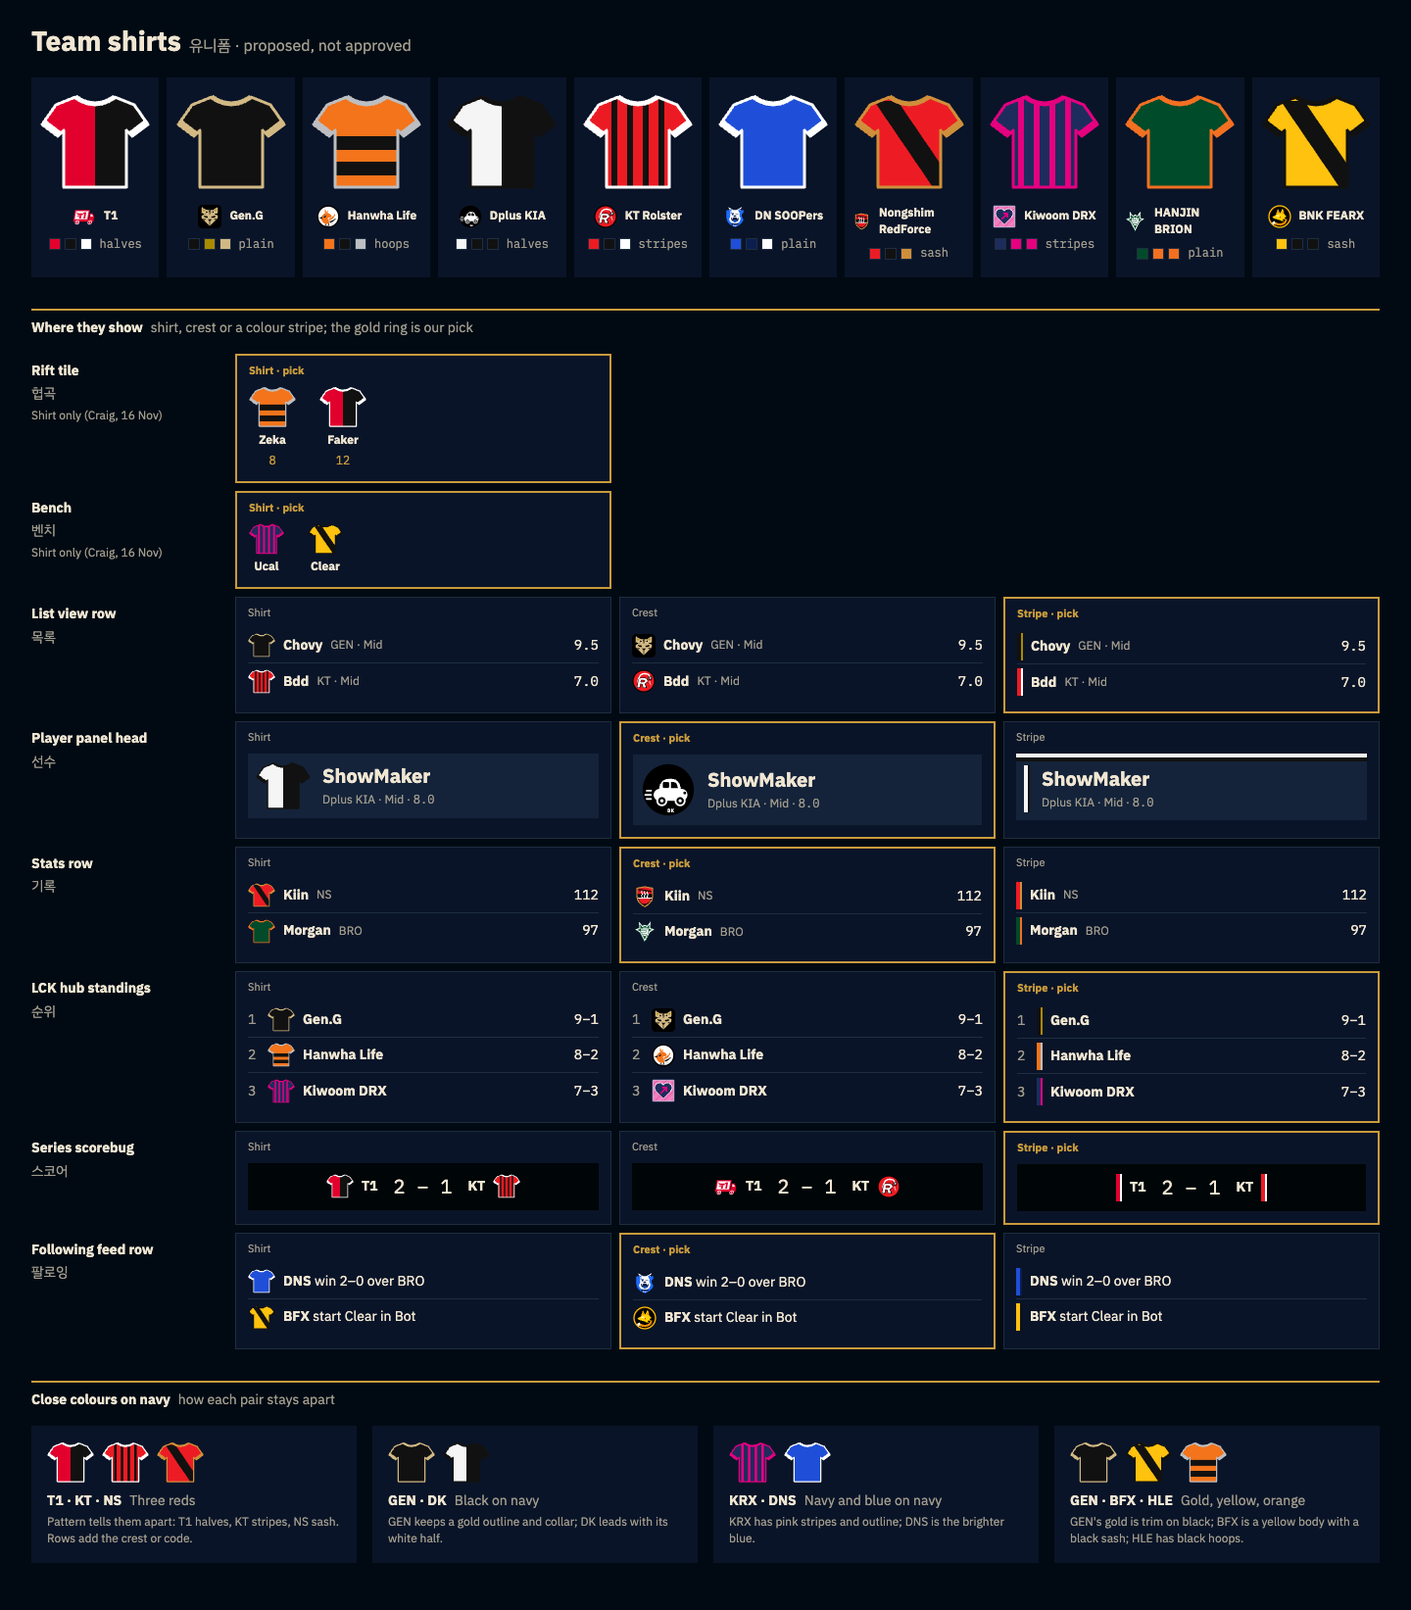
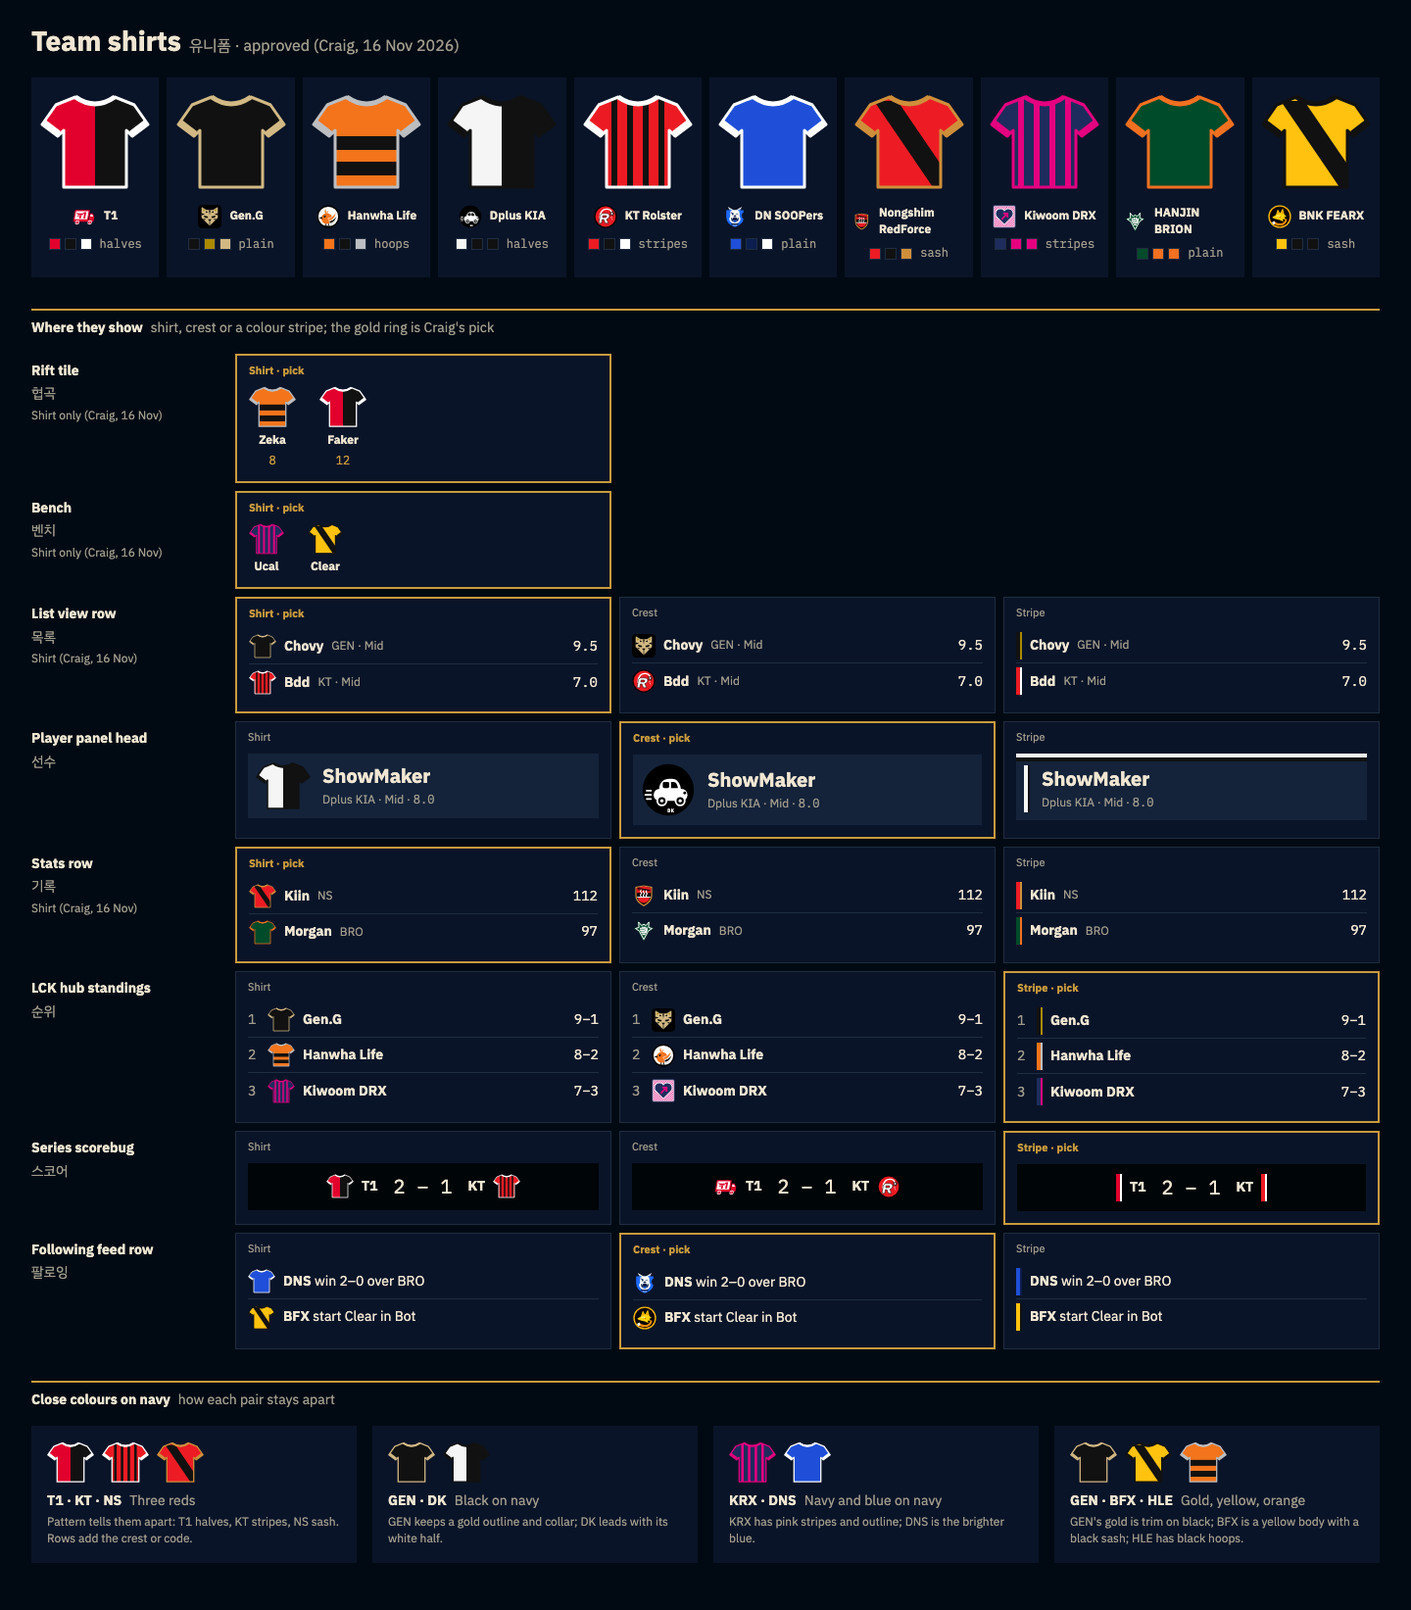
docs: team shirts approved; shirts on Rift, bench, list and stats rows
Crests on the player panel head and the Following feed; a colour stripe on
standings and the scorebug (Craig, 16 Nov 2026).

diff --git a/docs/design/proposals/2026-11-16-team-shirts/shirts.html b/docs/design/proposals/2026-11-16-team-shirts/shirts.html
@@ -14,7 +14,7 @@ h2{font-size:14px;font-weight:700;border-top:2px solid var(--ink);padding-top:8p
 .bug{display:flex;align-items:center;gap:8px;justify-content:center;background:#000508;height:48px}.bug .sc{font-size:20px;margin:0 8px}
 .clashes{display:grid;grid-template-columns:repeat(4,1fr);gap:16px}.clash{background:var(--paper);padding:16px}.cs{display:flex;gap:8px;margin-bottom:8px}.clash b{margin-right:8px}.clash p{color:var(--mid);font-size:12px;margin-top:4px}
 </style></head><body>
-<h1>Team shirts<i>유니폼 · proposed, not approved</i></h1>
+<h1>Team shirts<i>유니폼 · approved (Craig, 16 Nov 2026)</i></h1>
 <div class="heroes"><div class="hero"><div class="big"><svg width="112" height="100" viewBox="0 0 56 50" aria-label="T1 shirt"><defs><clipPath id="c0"><path d="M18 2 L8 6 L1 16 L9 22 L12 19 L12 48 L44 48 L44 19 L47 22 L55 16 L48 6 L38 2 Q28 9 18 2 Z"/></clipPath></defs>
 <g clip-path="url(#c0)"><path d="M18 2 L8 6 L1 16 L9 22 L12 19 L12 48 L44 48 L44 19 L47 22 L55 16 L48 6 L38 2 Q28 9 18 2 Z" fill="#E2012D"/><rect x="28" y="0" width="30" height="50" fill="#111111"/>
 <path d="M1 16 L9 22 L10.5 19.5 L3 13.8 Z M55 16 L47 22 L45.5 19.5 L53 13.8 Z" fill="#FFFFFF"/></g>
@@ -86,7 +86,7 @@ h2{font-size:14px;font-weight:700;border-top:2px solid var(--ink);padding-top:8p
 <div class="who"><svg width="24" height="24" viewBox="0 0 120 120" xmlns="http://www.w3.org/2000/svg"><circle cx="60" cy="60" r="58" fill="#FFD200"/><circle cx="60" cy="60" r="54" fill="#F28C00"/><circle cx="60" cy="60" r="51" fill="#000000"/><path d="M98 72 Q96 104 62 106 Q36 106 26 92 L34 90 L32 84 Q46 96 62 95 Q86 93 88 72 Z" fill="#F28C00"/><path d="M20 90 L33 83 L38 96 L27 101 Z" fill="#FFFFFF"/><path d="M20 64 L40 52 L50 22 L62 42 L76 18 L84 50 L95 60 L83 64 L91 74 L75 74 L79 86 L60 78 L44 74 L30 70 Z" fill="#FFD200"/><path d="M51 31 L58 42 L46 47 Z" fill="#F28C00"/><path d="M75 28 L80 47 L67 42 Z" fill="#F28C00"/><path d="M17 61 L25 64 L18 68 Z" fill="#000000"/><path d="M43 58 Q51 51 60 57" fill="none" stroke="#FFFFFF" stroke-width="3.5" stroke-linecap="round"/><path d="M58 63 L66 61 L62 66 Z" fill="#E60012"/></svg>
 <b>BNK FEARX</b></div>
 <div class="sw"><i style="background:#FFC20E"></i><i style="background:#111111"></i><i style="background:#111111"></i><span class="mono">sash</span></div></div></div>
-<h2>Where they show<span>shirt, crest or a colour stripe; the gold ring is our pick</span></h2><div class="place"><div class="pl"><b>Rift tile</b><span class="ko">협곡</span><span class="m">Shirt only (Craig, 16 Nov)</span></div><div class="cell pick"><div class="lbl">Shirt · pick</div><div class="tile"><svg width="48" height="42.857142857142854" viewBox="0 0 56 50" aria-label="Hanwha Life shirt"><defs><clipPath id="c10"><path d="M18 2 L8 6 L1 16 L9 22 L12 19 L12 48 L44 48 L44 19 L47 22 L55 16 L48 6 L38 2 Q28 9 18 2 Z"/></clipPath></defs>
+<h2>Where they show<span>shirt, crest or a colour stripe; the gold ring is Craig's pick</span></h2><div class="place"><div class="pl"><b>Rift tile</b><span class="ko">협곡</span><span class="m">Shirt only (Craig, 16 Nov)</span></div><div class="cell pick"><div class="lbl">Shirt · pick</div><div class="tile"><svg width="48" height="42.857142857142854" viewBox="0 0 56 50" aria-label="Hanwha Life shirt"><defs><clipPath id="c10"><path d="M18 2 L8 6 L1 16 L9 22 L12 19 L12 48 L44 48 L44 19 L47 22 L55 16 L48 6 L38 2 Q28 9 18 2 Z"/></clipPath></defs>
 <g clip-path="url(#c10)"><path d="M18 2 L8 6 L1 16 L9 22 L12 19 L12 48 L44 48 L44 19 L47 22 L55 16 L48 6 L38 2 Q28 9 18 2 Z" fill="#F3741B"/><rect x="0" y="22" width="56" height="7" fill="#111111"/><rect x="0" y="35" width="56" height="7" fill="#111111"/>
 <path d="M1 16 L9 22 L10.5 19.5 L3 13.8 Z M55 16 L47 22 L45.5 19.5 L53 13.8 Z" fill="#BCBEC1"/></g>
 <path d="M18 2 L8 6 L1 16 L9 22 L12 19 L12 48 L44 48 L44 19 L47 22 L55 16 L48 6 L38 2 Q28 9 18 2 Z" fill="none" stroke="#BCBEC1" stroke-width="1.5" stroke-linejoin="round"/>
@@ -102,7 +102,7 @@ h2{font-size:14px;font-weight:700;border-top:2px solid var(--ink);padding-top:8p
 <g clip-path="url(#c13)"><path d="M18 2 L8 6 L1 16 L9 22 L12 19 L12 48 L44 48 L44 19 L47 22 L55 16 L48 6 L38 2 Q28 9 18 2 Z" fill="#FFC20E"/><path d="M10 4 L22 4 L52 48 L40 48 Z" fill="#111111"/>
 <path d="M1 16 L9 22 L10.5 19.5 L3 13.8 Z M55 16 L47 22 L45.5 19.5 L53 13.8 Z" fill="#111111"/></g>
 <path d="M18 2 L8 6 L1 16 L9 22 L12 19 L12 48 L44 48 L44 19 L47 22 L55 16 L48 6 L38 2 Q28 9 18 2 Z" fill="none" stroke="#111111" stroke-width="1.5" stroke-linejoin="round"/>
-<path d="M18 2 Q28 9 38 2" fill="none" stroke="#111111" stroke-width="2.5"/></svg><b>Clear</b></div></div></div><div class="place"><div class="pl"><b>List view row</b><span class="ko">목록</span></div><div class="cell"><div class="lbl">Shirt</div><div class="row"><svg width="28" height="25" viewBox="0 0 56 50" aria-label="Gen.G shirt"><defs><clipPath id="c14"><path d="M18 2 L8 6 L1 16 L9 22 L12 19 L12 48 L44 48 L44 19 L47 22 L55 16 L48 6 L38 2 Q28 9 18 2 Z"/></clipPath></defs>
+<path d="M18 2 Q28 9 38 2" fill="none" stroke="#111111" stroke-width="2.5"/></svg><b>Clear</b></div></div></div><div class="place"><div class="pl"><b>List view row</b><span class="ko">목록</span><span class="m">Shirt (Craig, 16 Nov)</span></div><div class="cell pick"><div class="lbl">Shirt · pick</div><div class="row"><svg width="28" height="25" viewBox="0 0 56 50" aria-label="Gen.G shirt"><defs><clipPath id="c14"><path d="M18 2 L8 6 L1 16 L9 22 L12 19 L12 48 L44 48 L44 19 L47 22 L55 16 L48 6 L38 2 Q28 9 18 2 Z"/></clipPath></defs>
 <g clip-path="url(#c14)"><path d="M18 2 L8 6 L1 16 L9 22 L12 19 L12 48 L44 48 L44 19 L47 22 L55 16 L48 6 L38 2 Q28 9 18 2 Z" fill="#111111"/>
 <path d="M1 16 L9 22 L10.5 19.5 L3 13.8 Z M55 16 L47 22 L45.5 19.5 L53 13.8 Z" fill="#D2B984"/></g>
 <path d="M18 2 L8 6 L1 16 L9 22 L12 19 L12 48 L44 48 L44 19 L47 22 L55 16 L48 6 L38 2 Q28 9 18 2 Z" fill="none" stroke="#D2B984" stroke-width="1.5" stroke-linejoin="round"/>
@@ -112,12 +112,12 @@ h2{font-size:14px;font-weight:700;border-top:2px solid var(--ink);padding-top:8p
 <path d="M18 2 L8 6 L1 16 L9 22 L12 19 L12 48 L44 48 L44 19 L47 22 L55 16 L48 6 L38 2 Q28 9 18 2 Z" fill="none" stroke="#FFFFFF" stroke-width="1.5" stroke-linejoin="round"/>
 <path d="M18 2 Q28 9 38 2" fill="none" stroke="#FFFFFF" stroke-width="2.5"/></svg><b>Bdd</b><span class="m">KT · Mid</span><span class="mono r">7.0</span></div></div><div class="cell"><div class="lbl">Crest</div><div class="row"><svg width="24" height="24" viewBox="0 0 120 120" xmlns="http://www.w3.org/2000/svg"><rect x="0" y="0" width="120" height="120" rx="22" fill="#000000"/><polygon points="20,14 44,28 76,28 100,14 100,66 60,106 20,66" fill="#D2B984" stroke="#D2B984" stroke-width="3" stroke-linejoin="round"/><g fill="#AA8A00"><polygon points="26,22 38,29 27,33"/><polygon points="94,22 82,29 93,33"/></g><g fill="#000000"><polygon points="56,28 64,28 60,52"/><polygon points="40,33 52,37 41,41"/><polygon points="80,33 68,37 79,41"/><polygon points="18,42 36,48 18,54"/><polygon points="102,42 84,48 102,54"/><polygon points="26,70 42,74 32,78"/><polygon points="94,70 78,74 88,78"/><polygon points="30,55 52,60 48,67 34,65"/><polygon points="90,55 68,60 72,67 86,65"/><polygon points="51,74 69,74 60,85"/><rect x="58.5" y="84" width="3" height="24"/></g></svg>
 <b>Chovy</b><span class="m">GEN · Mid</span><span class="mono r">9.5</span></div><div class="row"><svg width="24" height="24" viewBox="0 0 120 120" xmlns="http://www.w3.org/2000/svg"><circle cx="60" cy="60" r="58" fill="#000000"/><circle cx="60" cy="60" r="52" fill="#EC1B23"/><path d="M30 66 Q34 18 70 22 Q88 24 91 38" fill="none" stroke="#FFFFFF" stroke-width="7" stroke-linecap="round"/><g transform="translate(12,0) skewX(-10)"><path fill-rule="evenodd" fill="#FFFFFF" stroke="#000000" stroke-width="2.5" stroke-linejoin="round" d="M38 44 H60 C72 44 78 51 78 59 C78 67 73 72 66 74 L79 94 H63 L52 75 H44 V94 H30 V52 Z M44 55 H58 C62 55 64 57 64 60 C64 63 62 65 58 65 H44 Z"/></g><polygon transform="translate(93,45) rotate(160)" points="0,-12 2.9,-4 11.4,-3.7 4.7,1.5 7.1,9.7 0,4.9 -7.1,9.7 -4.7,1.5 -11.4,-3.7 -2.9,-4" fill="#FFFFFF" stroke="#000000" stroke-width="3" stroke-linejoin="round"/><circle cx="90" cy="64" r="3.2" fill="#FFFFFF"/><circle cx="93" cy="72" r="2.3" fill="#FFFFFF"/><circle cx="95" cy="79" r="1.5" fill="#FFFFFF"/></svg>
-<b>Bdd</b><span class="m">KT · Mid</span><span class="mono r">7.0</span></div></div><div class="cell pick"><div class="lbl">Stripe · pick</div><div class="row"><i class="bar" style="height:28px;background:#111111;box-shadow:inset -2px 0 0 #AA8A00"></i><b>Chovy</b><span class="m">GEN · Mid</span><span class="mono r">9.5</span></div><div class="row"><i class="bar" style="height:28px;background:#EC1B23;box-shadow:inset -2px 0 0 #FFFFFF"></i><b>Bdd</b><span class="m">KT · Mid</span><span class="mono r">7.0</span></div></div></div><div class="place"><div class="pl"><b>Player panel head</b><span class="ko">선수</span></div><div class="cell"><div class="lbl">Shirt</div><div class="panel" style=""><svg width="56" height="50" viewBox="0 0 56 50" aria-label="Dplus KIA shirt"><defs><clipPath id="c16"><path d="M18 2 L8 6 L1 16 L9 22 L12 19 L12 48 L44 48 L44 19 L47 22 L55 16 L48 6 L38 2 Q28 9 18 2 Z"/></clipPath></defs>
+<b>Bdd</b><span class="m">KT · Mid</span><span class="mono r">7.0</span></div></div><div class="cell"><div class="lbl">Stripe</div><div class="row"><i class="bar" style="height:28px;background:#111111;box-shadow:inset -2px 0 0 #AA8A00"></i><b>Chovy</b><span class="m">GEN · Mid</span><span class="mono r">9.5</span></div><div class="row"><i class="bar" style="height:28px;background:#EC1B23;box-shadow:inset -2px 0 0 #FFFFFF"></i><b>Bdd</b><span class="m">KT · Mid</span><span class="mono r">7.0</span></div></div></div><div class="place"><div class="pl"><b>Player panel head</b><span class="ko">선수</span></div><div class="cell"><div class="lbl">Shirt</div><div class="panel" style=""><svg width="56" height="50" viewBox="0 0 56 50" aria-label="Dplus KIA shirt"><defs><clipPath id="c16"><path d="M18 2 L8 6 L1 16 L9 22 L12 19 L12 48 L44 48 L44 19 L47 22 L55 16 L48 6 L38 2 Q28 9 18 2 Z"/></clipPath></defs>
 <g clip-path="url(#c16)"><path d="M18 2 L8 6 L1 16 L9 22 L12 19 L12 48 L44 48 L44 19 L47 22 L55 16 L48 6 L38 2 Q28 9 18 2 Z" fill="#F5F5F5"/><rect x="28" y="0" width="30" height="50" fill="#111111"/>
 <path d="M1 16 L9 22 L10.5 19.5 L3 13.8 Z M55 16 L47 22 L45.5 19.5 L53 13.8 Z" fill="#111111"/></g>
 <path d="M18 2 L8 6 L1 16 L9 22 L12 19 L12 48 L44 48 L44 19 L47 22 L55 16 L48 6 L38 2 Q28 9 18 2 Z" fill="none" stroke="#111111" stroke-width="1.5" stroke-linejoin="round"/>
 <path d="M18 2 Q28 9 38 2" fill="none" stroke="#111111" stroke-width="2.5"/></svg><div><b class="pn">ShowMaker</b><span class="m">Dplus KIA · Mid · <span class="mono">8.0</span></span></div></div></div><div class="cell pick"><div class="lbl">Crest · pick</div><div class="panel" style=""><svg width="56" height="56" viewBox="0 0 120 120" xmlns="http://www.w3.org/2000/svg"><circle cx="60" cy="60" r="56" fill="#000000"/><path d="M40,60 C40,44 50,36 62,36 L68,36 C80,36 86,46 88,60 Z" fill="#FFFFFF"/><rect x="28" y="58" width="74" height="26" rx="13" fill="#FFFFFF"/><rect x="48" y="43" width="14" height="13" rx="3" fill="#000000"/><path d="M66,43 L72,43 C77,43 80,49 81,56 L66,56 Z" fill="#000000"/><circle cx="96" cy="67" r="3" fill="#000000"/><circle cx="46" cy="84" r="10" fill="#000000" stroke="#FFFFFF" stroke-width="4"/><circle cx="46" cy="84" r="3.5" fill="#FFFFFF"/><circle cx="86" cy="84" r="10" fill="#000000" stroke="#FFFFFF" stroke-width="4"/><circle cx="86" cy="84" r="3.5" fill="#FFFFFF"/><line x1="13" y1="62" x2="22" y2="62" stroke="#FFFFFF" stroke-width="4" stroke-linecap="round"/><line x1="10" y1="71" x2="22" y2="71" stroke="#FFFFFF" stroke-width="4" stroke-linecap="round"/><line x1="13" y1="80" x2="22" y2="80" stroke="#FFFFFF" stroke-width="4" stroke-linecap="round"/><text x="66" y="110" text-anchor="middle" font-family="IBM Plex Mono" font-weight="700" font-size="11" letter-spacing="1" fill="#FFFFFF">DK</text></svg>
-<div><b class="pn">ShowMaker</b><span class="m">Dplus KIA · Mid · <span class="mono">8.0</span></span></div></div></div><div class="cell"><div class="lbl">Stripe</div><div class="panel" style="border-top:4px solid #F5F5F5;box-shadow:inset 0 4px 0 #111111"><i class="bar" style="height:48px;background:#F5F5F5;box-shadow:inset -2px 0 0 #111111"></i><div><b class="pn">ShowMaker</b><span class="m">Dplus KIA · Mid · <span class="mono">8.0</span></span></div></div></div></div><div class="place"><div class="pl"><b>Stats row</b><span class="ko">기록</span></div><div class="cell"><div class="lbl">Shirt</div><div class="row"><svg width="28" height="25" viewBox="0 0 56 50" aria-label="Nongshim RedForce shirt"><defs><clipPath id="c17"><path d="M18 2 L8 6 L1 16 L9 22 L12 19 L12 48 L44 48 L44 19 L47 22 L55 16 L48 6 L38 2 Q28 9 18 2 Z"/></clipPath></defs>
+<div><b class="pn">ShowMaker</b><span class="m">Dplus KIA · Mid · <span class="mono">8.0</span></span></div></div></div><div class="cell"><div class="lbl">Stripe</div><div class="panel" style="border-top:4px solid #F5F5F5;box-shadow:inset 0 4px 0 #111111"><i class="bar" style="height:48px;background:#F5F5F5;box-shadow:inset -2px 0 0 #111111"></i><div><b class="pn">ShowMaker</b><span class="m">Dplus KIA · Mid · <span class="mono">8.0</span></span></div></div></div></div><div class="place"><div class="pl"><b>Stats row</b><span class="ko">기록</span><span class="m">Shirt (Craig, 16 Nov)</span></div><div class="cell pick"><div class="lbl">Shirt · pick</div><div class="row"><svg width="28" height="25" viewBox="0 0 56 50" aria-label="Nongshim RedForce shirt"><defs><clipPath id="c17"><path d="M18 2 L8 6 L1 16 L9 22 L12 19 L12 48 L44 48 L44 19 L47 22 L55 16 L48 6 L38 2 Q28 9 18 2 Z"/></clipPath></defs>
 <g clip-path="url(#c17)"><path d="M18 2 L8 6 L1 16 L9 22 L12 19 L12 48 L44 48 L44 19 L47 22 L55 16 L48 6 L38 2 Q28 9 18 2 Z" fill="#ED1C24"/><path d="M10 4 L22 4 L52 48 L40 48 Z" fill="#111111"/>
 <path d="M1 16 L9 22 L10.5 19.5 L3 13.8 Z M55 16 L47 22 L45.5 19.5 L53 13.8 Z" fill="#CF8F3A"/></g>
 <path d="M18 2 L8 6 L1 16 L9 22 L12 19 L12 48 L44 48 L44 19 L47 22 L55 16 L48 6 L38 2 Q28 9 18 2 Z" fill="none" stroke="#CF8F3A" stroke-width="1.5" stroke-linejoin="round"/>
@@ -125,7 +125,7 @@ h2{font-size:14px;font-weight:700;border-top:2px solid var(--ink);padding-top:8p
 <g clip-path="url(#c18)"><path d="M18 2 L8 6 L1 16 L9 22 L12 19 L12 48 L44 48 L44 19 L47 22 L55 16 L48 6 L38 2 Q28 9 18 2 Z" fill="#004B29"/>
 <path d="M1 16 L9 22 L10.5 19.5 L3 13.8 Z M55 16 L47 22 L45.5 19.5 L53 13.8 Z" fill="#F37021"/></g>
 <path d="M18 2 L8 6 L1 16 L9 22 L12 19 L12 48 L44 48 L44 19 L47 22 L55 16 L48 6 L38 2 Q28 9 18 2 Z" fill="none" stroke="#F37021" stroke-width="1.5" stroke-linejoin="round"/>
-<path d="M18 2 Q28 9 38 2" fill="none" stroke="#F37021" stroke-width="2.5"/></svg><b>Morgan</b><span class="m">BRO</span><span class="mono r">97</span></div></div><div class="cell pick"><div class="lbl">Crest · pick</div><div class="row"><svg width="24" height="24" viewBox="0 0 120 120" xmlns="http://www.w3.org/2000/svg"><path d="M17 15 L60 7 L103 15 L103 58 C103 85 85 101 60 115 C35 101 17 85 17 58 Z" fill="#CF8F3A"/><path d="M23 19.5 L60 12.5 L97 19.5 L97 58 C97 81 81 95 60 108 C39 95 23 81 23 58 Z" fill="#000000"/><path d="M23 19.5 L60 12.5 L97 19.5 L97 46 L23 46 Z" fill="#ED1C24"/><line x1="30" y1="22" x2="90" y2="32" stroke="#000000" stroke-width="4.5" stroke-linecap="round"/><line x1="30" y1="29" x2="90" y2="35" stroke="#000000" stroke-width="4.5" stroke-linecap="round"/><g fill="none" stroke="#FFFFFF" stroke-width="5.5" stroke-linecap="round" stroke-linejoin="round"><path d="M46 32 q-6 5 0 10 q6 5 0 10 q-6 5 0 10 L46 68"/><path d="M60 34 q-6 5 0 10 q6 5 0 10 q-6 5 0 10 L60 68"/><path d="M74 35 q-6 5 0 10 q6 5 0 10 q-6 5 0 10 L74 68"/></g><path d="M30 68 L90 68 C90 86 77 97 60 97 C43 97 30 86 30 68 Z" fill="#ED1C24"/><line x1="28" y1="68" x2="92" y2="68" stroke="#FFFFFF" stroke-width="5" stroke-linecap="round"/></svg>
+<path d="M18 2 Q28 9 38 2" fill="none" stroke="#F37021" stroke-width="2.5"/></svg><b>Morgan</b><span class="m">BRO</span><span class="mono r">97</span></div></div><div class="cell"><div class="lbl">Crest</div><div class="row"><svg width="24" height="24" viewBox="0 0 120 120" xmlns="http://www.w3.org/2000/svg"><path d="M17 15 L60 7 L103 15 L103 58 C103 85 85 101 60 115 C35 101 17 85 17 58 Z" fill="#CF8F3A"/><path d="M23 19.5 L60 12.5 L97 19.5 L97 58 C97 81 81 95 60 108 C39 95 23 81 23 58 Z" fill="#000000"/><path d="M23 19.5 L60 12.5 L97 19.5 L97 46 L23 46 Z" fill="#ED1C24"/><line x1="30" y1="22" x2="90" y2="32" stroke="#000000" stroke-width="4.5" stroke-linecap="round"/><line x1="30" y1="29" x2="90" y2="35" stroke="#000000" stroke-width="4.5" stroke-linecap="round"/><g fill="none" stroke="#FFFFFF" stroke-width="5.5" stroke-linecap="round" stroke-linejoin="round"><path d="M46 32 q-6 5 0 10 q6 5 0 10 q-6 5 0 10 L46 68"/><path d="M60 34 q-6 5 0 10 q6 5 0 10 q-6 5 0 10 L60 68"/><path d="M74 35 q-6 5 0 10 q6 5 0 10 q-6 5 0 10 L74 68"/></g><path d="M30 68 L90 68 C90 86 77 97 60 97 C43 97 30 86 30 68 Z" fill="#ED1C24"/><line x1="28" y1="68" x2="92" y2="68" stroke="#FFFFFF" stroke-width="5" stroke-linecap="round"/></svg>
 <b>Kiin</b><span class="m">NS</span><span class="mono r">112</span></div><div class="row"><svg width="24" height="24" viewBox="0 0 120 120" xmlns="http://www.w3.org/2000/svg"><path d="M28 6 L46 28 L60 20 L74 28 L92 6 L90 40 L112 46 L88 62 L60 114 L32 62 L8 46 L30 40 Z" fill="#004B29"/><path d="M28 6 L46 28 L60 20 L74 28 L92 6 L90 40 L112 46 L88 62 L60 114 L32 62 L8 46 L30 40 Z" fill="none" stroke="#FFFFFF" stroke-width="6" transform="translate(60 55) scale(0.82) translate(-60 -55)"/><path d="M42 52 L78 52 L78 60 L72 72 L48 72 L42 60 Z" fill="#FFFFFF"/><rect x="41" y="42" width="8" height="18" rx="4" fill="#FFFFFF"/><rect x="51" y="37.5" width="8" height="22" rx="4" fill="#FFFFFF"/><rect x="61" y="37.5" width="8" height="22" rx="4" fill="#FFFFFF"/><rect x="71" y="41" width="8" height="18" rx="4" fill="#FFFFFF"/><rect x="38.5" y="53" width="29" height="10" rx="5" fill="#FFFFFF" stroke="#004B29" stroke-width="2.5"/><rect x="52" y="75" width="16" height="6" fill="#FFFFFF"/></svg>
 <b>Morgan</b><span class="m">BRO</span><span class="mono r">97</span></div></div><div class="cell"><div class="lbl">Stripe</div><div class="row"><i class="bar" style="height:28px;background:#ED1C24;box-shadow:inset -2px 0 0 #CF8F3A"></i><b>Kiin</b><span class="m">NS</span><span class="mono r">112</span></div><div class="row"><i class="bar" style="height:28px;background:#004B29;box-shadow:inset -2px 0 0 #F37021"></i><b>Morgan</b><span class="m">BRO</span><span class="mono r">97</span></div></div></div><div class="place"><div class="pl"><b>LCK hub standings</b><span class="ko">순위</span></div><div class="cell"><div class="lbl">Shirt</div><div class="row"><span class="mono n">1</span><svg width="28" height="25" viewBox="0 0 56 50" aria-label="Gen.G shirt"><defs><clipPath id="c19"><path d="M18 2 L8 6 L1 16 L9 22 L12 19 L12 48 L44 48 L44 19 L47 22 L55 16 L48 6 L38 2 Q28 9 18 2 Z"/></clipPath></defs>
 <g clip-path="url(#c19)"><path d="M18 2 L8 6 L1 16 L9 22 L12 19 L12 48 L44 48 L44 19 L47 22 L55 16 L48 6 L38 2 Q28 9 18 2 Z" fill="#111111"/>

diff --git a/data/README.md b/data/README.md
@@ -3,7 +3,7 @@
 Seed data held per competition and season: teams, kit colours, stages. Data, never constants in code.
 
 - `lck/crests/<code>.svg`: each LCK team's crest, by team code (docs/design/approved/crests/). `src/parts/Crest.tsx` draws them.
-- `lck/teams.json`: each team's kit colours (primary body, secondary pattern, accent trim) and shirt pattern, by team code. Proposed in docs/design/proposals/2026-11-16-team-shirts/, not approved yet.
+- `lck/teams.json`: each team's kit colours (primary body, secondary pattern, accent trim) and shirt pattern, by team code. Approved in docs/design/proposals/2026-11-16-team-shirts/ (Craig, 16 Nov 2026): shirts on the Rift, the bench, Transfers list rows and Stats rows; crests on the player panel head and the Following feed; a colour stripe on standings and the scorebug.
 
 ## Kit colour sources
 
